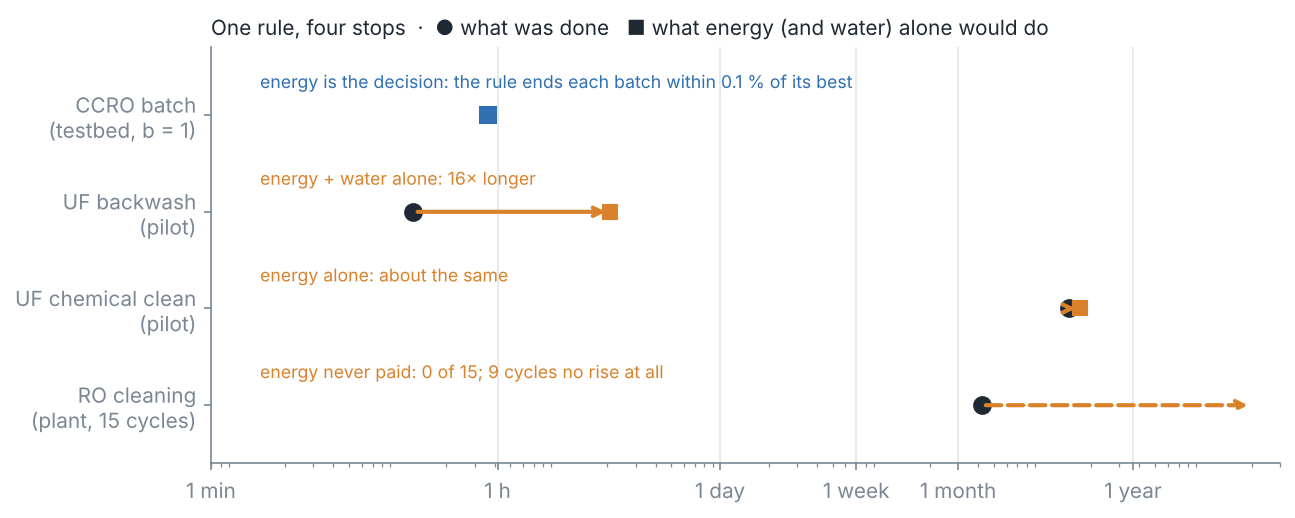
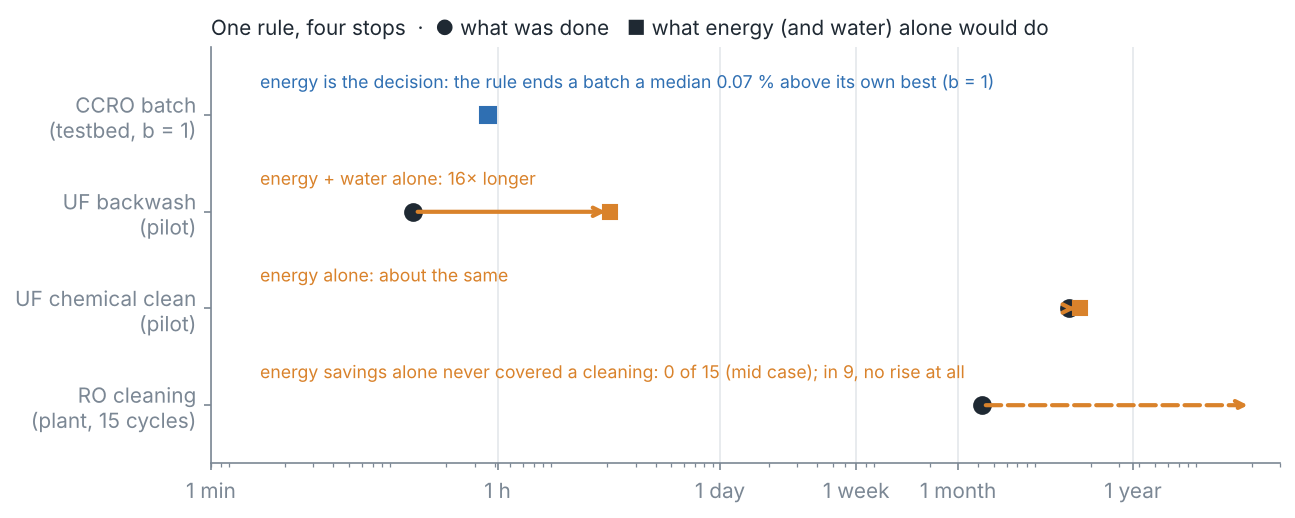
Scope the claims: separate systems, "not detected" with its size, denominators
No result changes. The declarations are untouched.

- P3: the real-plant test now shows its denominators: 213 decisions and
  61 crossings, with caught and false alarms per rule. It states the gaps
  (32 % of weekly rows) and marks the 13-of-18 replay as using the rule
  added after the test.
- P4: "The record clears solar operation" becomes "no daylight or restart
  effect detected on this UF pilot". A restart penalty above about 10 % is
  ruled out; a smaller one is not. RO trains are not in the record. The
  93 % solar design is labelled a scenario on a synthetic year: not costed,
  with RO daily stops assumed. "The moon does not foul" becomes "no tide
  detected", with the 5 % swing that could slip through.
- P5: four decisions on three separate public records. The batch rule is
  scored only where the record shows a batch's best end (97 and 10 of
  153), in hindsight; the rest are checked for early stops. "Energy never
  paid" becomes "energy savings alone never covered a cleaning (mid case)".
  fig3 is regenerated with the new labels.
- Services: the same wording on /stop, /sun, /ro and the home page.
  /stop/health gains the scored counts.

Claude-Session: https://claude.ai/code/session_01FCVuoMsfvQvpgW6FSYCxcC

Changed region(s): [[0.4324, 0.1236, 0.7722, 0.1853], [0.2471, 0.7104, 0.7413, 0.7413]]

diff --git a/chemai/api/sun_app.py b/chemai/api/sun_app.py
@@ -35,11 +35,11 @@ log = logging.getLogger(__name__)
 # The declared results (projects/p04_tide_fouling/VALIDATION.md 4 and 7).
 RESULTS = {
     "record": "seawater UF pilot, 2012-2015: 107 runs, 5,106 h, 14,998 filtration segments",
-    "tide_fouling": {"p": 0.244, "answer": "no tide-locked fouling; a 10 % swing would have been found 99.5 % of the time"},
+    "tide_fouling": {"p": 0.244, "answer": "no tide-locked fouling detected; a 10 % swing would have been found 99.5 % of the time"},
     "daylight_hours": {"p": 0.746, "contrast": -0.008, "ci95": [-0.025, 0.012],
-                       "answer": "09-15 h foul like the rest of the day"},
+                       "answer": "no daylight effect detected: 09-15 h within -2.5 % to +1.2 % of the rest of the day"},
     "restart": {"p": 0.382, "effect": 0.031, "ci95": [-0.039, 0.100],
-                "answer": "the first 3 h after a restart foul like the rest"},
+                "answer": "no restart effect detected; one above about 10 % is ruled out, a smaller one is not"},
     "solar_design_90pc": {"capacity": 3.0, "storage_h": 16, "pv_kwp": 0.7, "renewable": 0.93,
                           "grid_kwh_m3": 0.23, "from_kwh_m3": 3.26},
     "with_tidal_0_10kW": {"capacity": 2.0, "storage_h": 8, "pv_kwp": 0.9, "renewable": 0.91},
@@ -66,9 +66,10 @@ def create_sun_app() -> FastAPI:
         title="Desalination on the Sun - and the Moon",
         description=(
             "Two things a solar-run seawater plant needs to know. Does the pre-treatment membrane foul "
-            "differently by the hour, after a restart, or with the tide? (No - over 5,106 hours of a "
-            "public pilot.) And how much capacity, storage and PV - or a tidal turbine - buys a given "
-            "share of renewable energy.\n\n/test runs the declared tide or time-of-day test on your own log."),
+            "differently by the hour, after a restart, or with the tide? (None detected over 5,106 hours "
+            "of one public UF pilot; a restart penalty below about 10 % is not ruled out.) And, on a "
+            "synthetic year with no prices, how much capacity, storage and PV - or a tidal turbine - "
+            "buys a given share of renewable energy.\n\n/test runs the declared tide or time-of-day test on your own log."),
         version=__version__,
     )
     sec = SolarPlanConfig().sec

diff --git a/chemai/api/stop_app.py b/chemai/api/stop_app.py
@@ -38,6 +38,7 @@ log = logging.getLogger(__name__)
 RESULTS = {
     "batch_rule_test": {
         "batches": 153, "record": "closed-circuit RO testbed, Bayesian-optimisation runs (held out)",
+        "scored_best_end_in_record": {"b=1": 97, "b=10": 10},
         "median_above_best_pct": {"b=1": 0.069, "b=10": 0.019}, "p90_above_best_pct": {"b=1": 0.112, "b=10": 0.061},
         "optimiser_ended_while_cost_still_falling_pct": {"BO (test)": 90, "ESC (development)": 100},
         "square_root_law_forecast": "within 4-7 % for b <= 3; 11 % short at b = 10 (declared limit 10 %: failed)"},
@@ -76,10 +77,11 @@ def create_stop_app() -> FastAPI:
     app = FastAPI(
         title="When to Stop",
         description=(
-            "One rule for four decisions in a desalination plant: end a closed-circuit RO batch, backwash a "
-            "filter, clean it chemically, clean an RO train. Stop when the live cost of the next cubic metre "
-            "reaches the average cost of the cycle so far. Tested on 153 held-out batches of a public RO "
-            "testbed: a median 0.02-0.07 % above each batch's best end.\n\n/batch runs it on your own log."),
+            "One rule for four decisions in desalination, on three separate public records: end a "
+            "closed-circuit RO batch, backwash a filter, clean it chemically, clean an RO train. Stop when the "
+            "live cost of the next cubic metre reaches the average cost of the cycle so far. Tested once on "
+            "153 held-out batches of a public RO testbed: where a batch's best end is in the record (97 at "
+            "b = 1, 10 at b = 10), a median 0.02-0.07 % above it, found in hindsight.\n\n/batch runs it on your own log."),
         version=__version__,
     )
 

diff --git a/chemai/api/stop_page.py b/chemai/api/stop_page.py
@@ -93,7 +93,8 @@ PAGE = r"""<!doctype html>
     <table>
       <tr><th>Decision</th><th>Every</th><th>Energy the reason?</th><th>What the record said</th></tr>
       <tr><td>End a closed-circuit RO batch</td><td>~1 hour</td><td class="yes">Yes</td>
-        <td>The rule ended 153 held-out batches a median <b>0.02&ndash;0.07&nbsp;%</b> above each one's best end.
+        <td>Where the record shows a held-out batch's best end (97 of 153 at b&nbsp;=&nbsp;1, 10 at b&nbsp;=&nbsp;10), the rule
+        ended it a median <b>0.02&ndash;0.07&nbsp;%</b> above that end, found in hindsight.
         The published optimisers ended 90&ndash;100&nbsp;% of theirs while the cost was still falling.</td></tr>
       <tr><td>Backwash a UF element</td><td>~20 minutes</td><td class="no">No</td>
         <td>Energy and water alone would filter <b>~16&times;</b> more per backwash; the pilot spent 29&nbsp;% of
@@ -102,8 +103,8 @@ PAGE = r"""<!doctype html>
         <td>The resistance doubles between cleans; energy alone puts the clean at 1.1&ndash;1.3&times; the
         interval actually run.</td></tr>
       <tr><td>Clean an RO train</td><td>weeks&ndash;months</td><td class="no">No</td>
-        <td>In 15 cycles of a seawater plant the energy penalty never paid for a cleaning; in 9 it had no
-        rising trend at all. Longer cycles left more pressure drop behind.</td></tr>
+        <td>In 15 cycles of one seawater plant, energy savings alone never covered a cleaning (mid case);
+        in 9 the penalty had no rising trend at all. Longer cycles left more pressure drop behind.</td></tr>
     </table>
   </div>
 

diff --git a/chemai/api/sun_page.py b/chemai/api/sun_page.py
@@ -93,16 +93,16 @@ PAGE = r"""<!doctype html>
       fouling rate of each stretch from the membrane's resistance.</div>
     <div class="tiles">
       <div class="tile"><div class="k">The tide</div>
-        <div class="ans">Not locked to it</div>
-        <div>Fouling did not rise and fall with the tide.</div>
+        <div class="ans">None detected</div>
+        <div>The test found no tide-locked rise and fall in the fouling.</div>
         <div class="num">p = 0.24 &middot; a 10&nbsp;% swing would have been caught 99.5&nbsp;% of the time</div></div>
       <div class="tile"><div class="k">The sunny hours</div>
-        <div class="ans">No difference</div>
+        <div class="ans">No difference detected</div>
         <div>09&ndash;15&nbsp;h fouled like the rest of the day.</div>
         <div class="num">&minus;0.8&nbsp;% (&minus;2.5 to +1.2&nbsp;%) &middot; p = 0.75</div></div>
       <div class="tile"><div class="k">The restart</div>
-        <div class="ans">No penalty found</div>
-        <div>The first 3&nbsp;h after a stop fouled like the rest.</div>
+        <div class="ans">No penalty detected</div>
+        <div>The first 3&nbsp;h after a stop: a penalty above about 10&nbsp;% is ruled out.</div>
         <div class="num">+3.1&nbsp;% (&minus;3.9 to +10.0&nbsp;%) &middot; p = 0.38</div></div>
     </div>
     <div class="hint">So on this record the pre-treatment can follow the sun &mdash; stop at night,

diff --git a/projects/p05_when_to_stop/make_figures.py b/projects/p05_when_to_stop/make_figures.py
@@ -117,13 +117,13 @@ def fig_map():
     minutes_per_l = float((b6.filt_min / b6.filt_Vp_l).median())
     rows = [
         ("CCRO batch\n(testbed, b = 1)", np.nan, float(test.V_best_l.median() * minutes_per_l) / 60 / 24,
-         "energy is the decision: the rule ends each batch within 0.1 % of its best"),
+         "energy is the decision: the rule ends a batch a median 0.07 % above its own best (b = 1)"),
         ("UF backwash\n(pilot)", float(bw.v_cycle_m3.median() / bw.q_m3h.median()) / 24,
          float(bw.v_star_m3.median() / bw.q_m3h.median()) / 24, f"energy + water alone: {uf['B1']['median_ratio']:.0f}× longer"),
         ("UF chemical clean\n(pilot)", float(np.mean([c["length_d"] for c in uf["C_intervals"]])),
          float(np.mean([c["t_star_d"] for c in uf["C_intervals"]])), "energy alone: about the same"),
         ("RO cleaning\n(plant, 15 cycles)", float(ro.length_d.median()), np.inf,
-         f"energy never paid: 0 of {d['complete_cycles']}; 9 cycles no rise at all"),
+         f"energy savings alone never covered a cleaning: 0 of {d['complete_cycles']} (mid case); in 9, no rise at all"),
     ]
     fig, ax = plt.subplots(figsize=(9.2, 3.6))
     for i, (name, actual, star, note) in enumerate(rows):

diff --git a/chemai/api/ro_app.py b/chemai/api/ro_app.py
@@ -45,9 +45,12 @@ log = logging.getLogger(__name__)
 
 LIMITS = [
     "On the one real plant it was tested on (three trains, eighteen cleanings), the date forecast "
-    "did not beat a simple rule. 'The 7-day median is within 0.03 of the level' caught 43 % of "
-    "the crossings inside 28 days at 93 % precision; the forecast caught 21 % at 72 %. The weekly "
-    "plan therefore uses both - a rule adopted after that test (VALIDATION.md section 12).",
+    "did not beat a simple rule. Of 213 weekly decisions, 61 were followed by a crossing within 28 "
+    "days: 'the 7-day median is within 0.03 of the level' caught 26 of them with 2 false alarms "
+    "(recall 0.43, precision 0.93); the forecast caught 13 with 5 (0.21, 0.72). The weekly plan "
+    "therefore uses both - a rule adopted after that test (VALIDATION.md section 12).",
+    "Gaps: a third of the real plant's weekly rows (32 %) had too few recorded days for any "
+    "forecast; the plan answers 'data' there instead of guessing.",
     "Level forecasts 14 days ahead were no better than assuming the level stays where it is "
     "(mean error 0.034 for both).",
     "The P10-P90 band is rough: it held 78 % of outcomes on simulated test plants, 89 % on the "

diff --git a/chemai/models/solar_plan.py b/chemai/models/solar_plan.py
@@ -1,9 +1,12 @@
 """Running a seawater UF -> RO plant on the sun: an hour-by-hour plan for a year.
 
-Part 2 of Project 4 found that the pre-treatment membrane fouls at the same
-rate in daylight as at night and does not foul faster after a restart. So a
-plant built from modules - each module on or off, always at its design flux -
-can follow the sun with no fouling price per cubic metre. What remains is
+Part 2 of Project 4 detected no difference in the pre-treatment membrane's
+fouling rate between daylight and the rest of the day (-2.5 % to +1.2 %) and
+none after a restart (-3.9 % to +10.0 %: above about 10 % ruled out). So this
+plan treats a plant built from modules - each module on or off, always at its
+design flux - as following the sun with no fouling price per cubic metre: an
+assumption the record supports for the UF, and does not test for the RO
+trains (a flush at each stop is assumed). What remains is
 hardware: how much production capacity, product-water storage and PV a given
 solar share needs. That is a linear programme.
 

diff --git a/chemai/api/index_page.py b/chemai/api/index_page.py
@@ -34,9 +34,9 @@ INDEX = r"""<!doctype html>
 
   <a class="card" href="stop/">
     <div class="t">When to stop</div>
-    <div class="d">One rule for four decisions in a desalination plant: end an RO batch, backwash,
-      clean chemically, clean an RO train. Tested once on 153 held-out batches of a public RO
-      testbed, then run on your own batch log or cleaning cycle.</div>
+    <div class="d">One rule for four decisions in desalination &mdash; end an RO batch, backwash,
+      clean chemically, clean an RO train &mdash; on three separate public records. Tested once on
+      153 held-out batches of a public RO testbed, then run on your own batch log or cleaning cycle.</div>
     <div class="m">Open the demo &rarr;</div>
   </a>
 

diff --git a/tests/test_stop_api.py b/tests/test_stop_api.py
@@ -91,7 +91,7 @@ def test_interval_on_the_real_cycles(client):
     ro = EXAMPLES["ro_cycle"]
     j = client.post("/interval", json={"day": ro["day"], "live_cost": ro["live_cost"],
                                        "fixed_cost": ro["fixed_cost"]}).json()
-    assert j["rule_day"] is None                         # energy never paid within the cycle
+    assert j["rule_day"] is None                         # energy alone never covered a cleaning in the cycle
     assert j["t_star_days"] > ro["actual_days"]
     uf = EXAMPLES["uf_interval"]
     j2 = client.post("/interval", json={"day": uf["day"], "live_cost": uf["live_cost"],

diff --git a/projects/p04_tide_fouling/step8_sun_and_moon.py b/projects/p04_tide_fouling/step8_sun_and_moon.py
@@ -1,7 +1,8 @@
 """Step 8 - the moon as a power source: a tidal turbine beside the PV.
 
-Part 1 found the tide does not foul the membrane; part 2 that the membrane
-does not mind when it runs. So the plant can follow any renewable supply. A
+Part 1 found no tide in the membrane's fouling; part 2 no sign that the
+membrane minds when it runs. So, in this design study, the plant can follow any
+renewable supply. A
 tidal-stream turbine delivers at night and on cloudy days, on a timetable known
 years ahead. How much tank and capacity does a little of it save?
 

diff --git a/projects/p04_tide_fouling/README.md b/projects/p04_tide_fouling/README.md
@@ -4,49 +4,54 @@
 design explorer for solar and tidal supply, and the declared tide (or time-of-day) test run on your
 own `t,value` CSV.
 
-**The record clears solar operation.** Over 5,106 hours of a seawater
-ultrafiltration pilot, the fouling rate does not depend on the hour of the day
-(daylight hours within −2.5 % to +1.2 % of the rest) or on a daily stop and
-restart (first 3 hours within −3.9 % to +10.0 %). A solar-run pre-treatment can
-produce in daylight and stop at night, at its usual flux, without fouling
-faster. Both tests were declared before they were run, with positive controls,
-placebos and power analyses.
+**No daylight or restart effect was detected on this pilot.** Over 5,106 hours
+of a seawater ultrafiltration (UF) pilot, the fouling rate in daylight hours was
+within −2.5 % to +1.2 % of the rest of the day, and in the first 3 hours after a
+daily stop and restart within −3.9 % to +10.0 % (95 % intervals). A restart
+penalty above about 10 % is ruled out; a smaller one is not. On this record, a
+UF pre-treatment that produces in daylight and stops at night, at its usual
+flux, showed no sign of fouling faster. Reverse-osmosis trains are not in the
+record: their daily stops need their own test. Both tests were declared before
+they were run, with positive controls, placebos and power analyses.
 
-**What it takes to run on the sun.** With modules switched on and off at their
-usual flux — so the record's no-penalty result applies — a synthetic sunny year
-needs, per m³/day of water: 3× production capacity, a 16-hour tank and 0.7 kWp
-of PV for 93 % solar energy (grid electricity 3.26 → 0.23 kWh/m³). A simple
-rule with no forecast does as well as a perfect-foresight plan once the tank is
-that big. Getting the capacity by pushing flux instead of adding modules would
-raise fouling per m³ — the design study is in VALIDATION.md 8. Where a strong
-tidal current exists, a turbine supplying about a quarter of the energy lets
-the plant reach 90 % renewable with 2× capacity and an 8-hour tank
-(VALIDATION.md 9): the moon does not foul the membrane, but it can run it at
+**A design scenario for running on the sun.** With modules switched on and off
+at their usual flux — the condition the UF result above was measured at — a
+synthetic sunny year needs, per m³/day of water: 3× production capacity, a
+16-hour tank and 0.7 kWp of PV for 93 % of the plant's electricity from the sun
+(grid electricity 3.26 → 0.23 kWh/m³). It is an energy design on a synthetic
+year, not a costed plant: no prices are used, and the RO side under daily stops
+is assumed (a flush at each stop), not tested. A simple rule with no forecast
+does as well as a perfect-foresight plan once the tank is that big. Getting the
+capacity by pushing flux instead of adding modules would raise fouling per m³ —
+the design study is in VALIDATION.md 8. Where a strong tidal current exists, a
+turbine supplying about a quarter of the energy lets the plant reach 90 %
+renewable with 2× capacity and an 8-hour tank (VALIDATION.md 9): no tide was
+found in this membrane's fouling, but a tidal current could run a plant at
 night.
 
 ![What capacity and storage buy](figures/fig7_solar_share.png)
 
-**And the moon does not matter here.** The first question was the tide:
-not at this intake, and not by more than about 10 % of the fouling rate. A test
+**And no tide was found here.** The first question was the tide. A test
 declared before it was run found no tide-locked component in the fouling of
-the pilot over 2012–2015 (p = 0.24), with
-the power to find one whose swing is 10 % of the median rate (found in 99.5 %
-of simulated trials). Calibration held; the out-of-time confirmation failed.
+the pilot over 2012–2015 (p = 0.24). It had the power to find one whose swing
+is 10 % of the median rate (found in 99.5 % of simulated trials); a 5 % swing
+could slip through (found 43 % of the time). Calibration held; the out-of-time
+confirmation failed.
 The pilot's pump hydraulics carry a faint, steady tidal signature (exploratory),
 so the feed did feel the tide — the fouling did not follow it.
 
 | | result |
 |---|---|
-| Fouling rate locked to the tide (declared, H1) | **no** — p = 0.244, needed ≤ 0.01 |
+| Fouling rate locked to the tide (declared, H1) | **not detected** — p = 0.244, needed ≤ 0.01 |
 | What it could have missed | a swing of 5 % of the median rate could slip through (found 43 % of the time); 10 % could not (99.5 %) |
 | Same test on made-up periods (calibration) | p = 0.330 — the test does not invent signals |
 | Fit 2012–13, freeze, score 2014–15 | explains −1.3 % (worse than nothing), p = 0.248 |
 | Pump hydraulics (declared controls) | p = 0.349 and 0.015 — not passed |
 | Pump hydraulics, per-episode phase check (exploratory) | M2-locked, opposite phases for speed and pressure, stable across both halves |
 | Feed turbidity, 2013 only | p = 0.063 — undecided |
-| **Fouling follows the hour of the day** (declared, H2) | **no** — p = 0.746; daylight hours −0.8 % (−2.5 % to +1.2 %) |
+| **Fouling follows the hour of the day** (declared, H2) | **not detected** — p = 0.746; daylight hours −0.8 % (−2.5 % to +1.2 %) |
 | Temperature follows the hour (positive control) | yes — p = 0.001, the clock and the test work |
-| **First 3 h after a restart foul differently** (declared, H3) | **no** — p = 0.382; +3.1 % (−3.9 % to +10.0 %) |
+| **First 3 h after a restart foul differently** (declared, H3) | **not detected** — p = 0.382; +3.1 % (−3.9 % to +10.0 %): above about 10 % ruled out, below not |
 | Pretend restart 24 h in (placebo) | p = 0.842 |
 
 ![The real clock against 999 clocks moved by whole weeks](figures/fig4_test.png)
@@ -57,8 +62,8 @@ Seawater plants draw from the sea, and the sea follows the moon. If the fouling
 load at an intake rose and fell with the tide, part of the plant's future
 fouling would be known years ahead — something no sensor and no forecast model
 can give — and backwash, coagulant and production could be planned against it.
-At this pilot the answer is no, and the method that gave it can be pointed at
-any plant log with a clock.
+At this pilot no tide was detected, and the method that tested it can be
+pointed at any plant log with a clock.
 
 ## How the test cannot be fooled by the day
 
@@ -86,8 +91,11 @@ inside continuous training episodes, minutes from training data.
 
 One pilot. Its hydraulics suggest the feed came through storage that damps the
 tide; an intake that draws straight from the sea could behave differently, and
-this test is how to find out. The fouling rate is relative (%/h) — membrane
-area is not in the record. Turbidity covers 2013 only.
+this test is how to find out. The daylight and restart tests cover the UF
+pre-treatment only — not the RO membranes after it. The solar and tidal designs
+are energy scenarios on a synthetic year, with no site and no prices. The
+fouling rate is relative (%/h) — membrane area is not in the record. Turbidity
+covers 2013 only.
 
 ## Files
 

diff --git a/projects/p04_tide_fouling/VALIDATION.md b/projects/p04_tide_fouling/VALIDATION.md
@@ -150,13 +150,13 @@ ran. Power: `results/step5_sun_power.json`. Results: `results/step6_sun_tests.js
 
 | test | number | p | verdict |
 |---|---|---|---|
-| **H2** fouling rate follows the time of day | variance explained 0.028 % (null 95th pct 0.092 %) | **0.746** | no daily pattern |
+| **H2** fouling rate follows the time of day | variance explained 0.028 % (null 95th pct 0.092 %) | **0.746** | no daily pattern detected |
 | C3 positive control: temperature follows the time of day | 43.8 % (null 9.8 %) | 0.001 | the clock and the test work |
 | H2 placebo periods | 0.060 % (null 0.097 %) | 0.330 | calibrated |
 | H2 confirmation, fit 2012–13 → score 2014–15 | −0.27 % | 0.897 | nothing to confirm |
 | H2 with temperature in the base model | — | 0.385 | same |
 | **Solar-hours contrast** (09–15 h against the rest) | −0.8 % of the median fouling rate, 95 % interval **−2.5 % to +1.2 %** | — | not relevant (line: ±10 %) |
-| **H3** first 3 h after a restart (81 restarts, 2,503 segments) | +3.1 % of the median, 95 % interval **−3.9 % to +10.0 %** | **0.382** | no restart effect |
+| **H3** first 3 h after a restart (81 restarts, 2,503 segments) | +3.1 % of the median, 95 % interval **−3.9 % to +10.0 %** | **0.382** | no restart effect detected; above ~10 % ruled out |
 | H3 placebo, pretend restart at 24 h | −1.3 % | 0.842 | calibrated |
 | H3 in 2012–13 / 2014–15 | +0.34 / +0.25 %/h | 0.74 / 0.72 | no replication needed — nothing to replicate |
 | H3 idle 2–12 h / over 12 h (exploratory) | +1.63 / +0.41 %/h | 0.38 / 0.42 | — |
@@ -166,23 +166,26 @@ added to the real fouling rates is found at p = 0.001 (5 %: p = 0.032); an
 early-hours step of 10 % added to the real restart windows is found at
 p = 0.0007.
 
-**What it means for a plant run on the sun.** The record clears the two
-fouling worries about solar operation, with intervals rather than hopes:
+**What it means for a plant run on the sun.** On this UF pilot neither fouling
+worry about solar operation showed up, and the intervals say how large an
+effect could still hide:
 
-- Running only in daylight does not change the fouling rate: the hours 09–15
-  foul within −2.5 % to +1.2 % of the rest of the day.
-- Stopping every night and restarting every morning does not change it either:
-  the first 3 h after a restart are within −3.9 % to +10.0 %; a price of 20 %
-  would have been caught 98 % of the time.
+- No daylight effect was detected: the hours 09–15 foul within −2.5 % to
+  +1.2 % of the rest of the day.
+- No restart effect was detected either: the first 3 h after a restart are
+  within −3.9 % to +10.0 % — a penalty above about 10 % is ruled out, a smaller
+  one is not; a price of 20 % would have been caught 98 % of the time.
 - The warm-water bonus is real but small here: the daily temperature swing is
   0.7 °C, and the hours 09–15 average only 0.13 °C warmer than the rest — a
   0.3 % viscosity gain. Not a reason to run in daylight, not a reason against.
 
-So a seawater pre-treatment can be run on solar hours, with daily stops, at
-the same flux it runs at around the clock, without fouling faster. The price
-of going solar is membrane area and storage — sized in part 3 — not fouling.
-The limits of section 7 of the second declaration stand: one pilot, and its
-restarts were the operators' choice.
+So, on this record, a seawater UF pre-treatment run on solar hours, with daily
+stops, at the same flux it runs at around the clock, showed no sign of fouling
+faster. The price of going solar is then membrane area and storage — sized in
+part 3 — rather than fouling. This covers the UF only: the RO trains are not in
+the record, and their daily stops need their own test. The limits of section 7
+of the second declaration stand: one pilot, and its restarts were the
+operators' choice.
 
 ## 8. Part 3 — sizing a plant that runs on the sun
 
@@ -194,7 +197,7 @@ comes from the record and what is assumed:
 
 | input | value | from |
 |---|---|---|
-| fouling per m³ in daylight-only, stop-start operation at design flux | same as round-the-clock | part 2 (H2, H3) |
+| fouling per m³ in daylight-only, stop-start operation at design flux | taken as round-the-clock: no difference detected (a restart penalty below ~10 % not excluded) | part 2 (H2, H3), UF only |
 | UF energy | 0.26 kWh per m³ of product: 0.083 kWh hydraulic per m³ of UF feed (median of 106 runs; filtration pressure × feed flow plus backwash pressure × backwash flow), ÷ pump efficiency 0.7, ÷ RO recovery 0.45 | the record + assumptions |
 | seawater RO energy | 3.0 kWh/m³ — the plant uses 3.26 kWh/m³ in all | literature range 2.5–3.5 |
 | weather | synthetic: day length 10.4–13.6 h, clear-day 6.2 kWh/kWp ± 16 % by season, daily cloud draw; mean 5.26 kWh/kWp/day ("sunny"), 4.73 ("cloudier") | assumption, no site |
@@ -258,9 +261,9 @@ Run: `step8_sun_and_moon.py`; results: `results/step8_sun_and_moon.{parquet,json
 Same design study, with a generic tidal-stream turbine beside the PV: current
 from M2 and S2 (so spring and neap), power ∝ speed³ up to the rated speed,
 capacity factor 0.35 (typical for tidal stream). It delivers at night and on
-cloudy days, on a timetable known years ahead. Part 1 says the tide does not
-foul the membrane, part 2 that the membrane does not mind when it runs — so
-the plant can follow either supply.
+cloudy days, on a timetable known years ahead. Part 1 found no tide in this
+membrane's fouling, part 2 no sign that it minds when it runs — so, in this
+design study, the plant can follow either supply.
 
 | renewable share | PV only | + tidal 0.10 kW per m³/day (≈ 26 % of the energy) | + tidal 0.15 kW (≈ 39 %) |
 |---|---|---|---|
